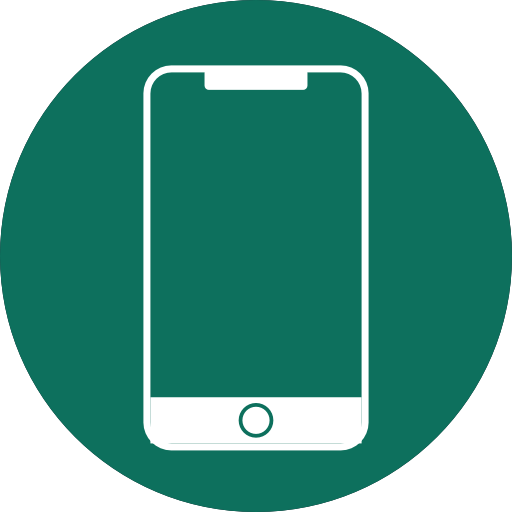
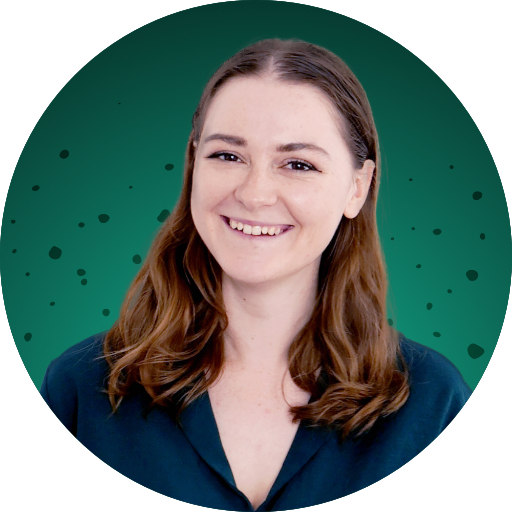
Added visuals, fixed image header and dark mode

diff --git a/src/pages/visuals.js b/src/pages/visuals.js
@@ -34,10 +34,14 @@ import expand from '../images/visuals/inhub-expand.webp'
 import spatial from '../images/visuals/spatial.webp'
 import torii from '../images/visuals/torii.webp'
 import kimchi from '../images/visuals/kimchi.webp'
+import inhubweb from '../images/visuals/inhub-web.webp'
+import marina from '../images/visuals/zielona-marina.webp'
+import dokbaza from '../images/visuals/dokbaza.webp'
 /*posters*/
 import bubbletea from '../images/visuals/bubbletea.webp'
 import cat from '../images/visuals/cat.webp'
 import smok from '../images/visuals/smok.webp'
+import balwan from '../images/visuals/balwan.webp'
 
 const Visuals = () => {
   const [theme, toggleTheme] = useDarkMode();
@@ -101,6 +105,10 @@ const Visuals = () => {
       <Button href='#visual-videos' label='Scroll to videos' theme={theme} type='secondary'/></div>
     </div>
     <div className='visuals-gallery'>
+      <Visual src={dokbaza} tags={'ui'} alt={'Dokbaza AI Medicine Doctor Assistant - Web App UI/UX Design'} theme={theme} orient={'horizontal'} class={theme==='dark'?'fullmode-light' : 'fullmode'}/>
+      <Visual src={marina} tags={'ui'} alt={'Zielona Marina Developer Apartments By the sea side - Website UI/UX Design'} theme={theme} orient={'horizontal'} class={theme==='dark'?'fullmode-light' : 'fullmode'}/>
+      <Visual src={inhubweb} tags={'ui'} alt={'Innovations Hub Foundations Polish Startup Incubator - Website UI/UX Design'} theme={theme} orient={'horizontal'} class={theme==='dark'?'fullmode-light' : 'fullmode'}/>
+      <Visual src={balwan} tags={'ill'} alt={'Snowman Poster & Christmas Card Design'} theme={theme} orient={'horizontal'} class={theme==='dark'?'fullmode-light' : 'fullmode'}/>
       <Visual src={kimchi} tags={'ui'} alt={'Doktor Kimchi - German Kimchi manufacturer - Website+Shop UI/UX Design'} theme={theme} orient={'horizontal'} class={theme==='dark'?'fullmode-light' : 'fullmode'}/>
       <Visual src={torii} tags={'ui'} alt={'Torii - Crypto-security startup landing page UI/UX Design'} theme={theme} orient={'horizontal'} class={theme==='dark'?'fullmode-light' : 'fullmode'}/>
       <Visual src={spatial} tags={'ui'} alt={'Spatial Design Exploration - Food Ordering Service displayed in a VR Google Environment'} theme={theme} orient={'horizontal'} class={theme==='dark'?'fullmode-light' : 'fullmode'}/>

diff --git a/src/components/Navbar/NavItem/navitem.js b/src/components/Navbar/NavItem/navitem.js
@@ -1,13 +1,20 @@
 import React from "react";
+import {useEffect} from 'react'
+import {useState} from 'react'
 import './navitem.css';
 
 const Navitem = (props) => {
-    if(typeof window !== 'undefined'){
-      var currentPage = window.location.pathname;
-    }
-    console.log(currentPage, props.href);
+    const [currentPage, setCurrentPage] = useState('');
+
+    useEffect(() => {
+        if (typeof window !== 'undefined') {
+            setCurrentPage(window.location.pathname);
+        }
+    }, []); // This ensures the current page is set only once when the component mounts.
+
+    const isActive = currentPage === props.href;
     return (
-        <div className={currentPage===props.href?'active':''}>
+        <div className={isActive ? 'active':''}>
             <a className={props.theme==='dark'? '' : 'darkmode'} href={props.href}><mark>•</mark>{props.label}</a>
         </div>
     );

diff --git a/src/pages/about.js b/src/pages/about.js
@@ -61,8 +61,8 @@ rewarding 💪 <br/> <br/>
 In my free time, I enjoy hiking, watercolor painting, crotcheting and amusing my plants with dad jokes.
           </p>
         <div className={theme==='dark'?'resume-btns':'resume-btns darkmode'}>
-          <Button href='' type='secondary' theme={theme} label='Open Resume EN🇬🇧'/>
-          <Button href='' type='secondary' theme={theme} label='Open Resume PL🇵🇱'/>
+          <Button href='https://drive.google.com/file/d/12Ma-45ZjO0Wbc9DTMqX9hBKkndahJAKN/view?usp=sharing' type='secondary' theme={theme} label='Open Resume EN🇬🇧'/>
+          <Button href='https://drive.google.com/file/d/1k6MHyeozuh4-X-zmmmbyoajJYnxylNwo/view?usp=sharing' type='secondary' theme={theme} label='Open Resume PL🇵🇱'/>
         </div>
         <div className='contact-info'>
           <div className='sm-icons'>

diff --git a/src/components/useDarkMode.js b/src/components/useDarkMode.js
@@ -14,7 +14,7 @@ export default () => {
   }
 
   useEffect(() => {
-    const localTheme = window.localStorage.getItem('components/theme')
+    const localTheme = window.localStorage.getItem('theme')
     if (localTheme) {
       setTheme(localTheme)
     }

diff --git a/src/components/index.css b/src/components/index.css
@@ -34,7 +34,7 @@ body.darkmode .head-main{
 }
 
 .head-img img{
-  width: 100%;
+  height: 100%;
   position:absolute;
   bottom: 0;
 }

diff --git a/gatsby-config.js b/gatsby-config.js
@@ -64,5 +64,5 @@ module.exports = {
       },
     },
   ],
-  pathPrefix: "/portfolio"
+  pathPrefix: `/portfolio`
 }
